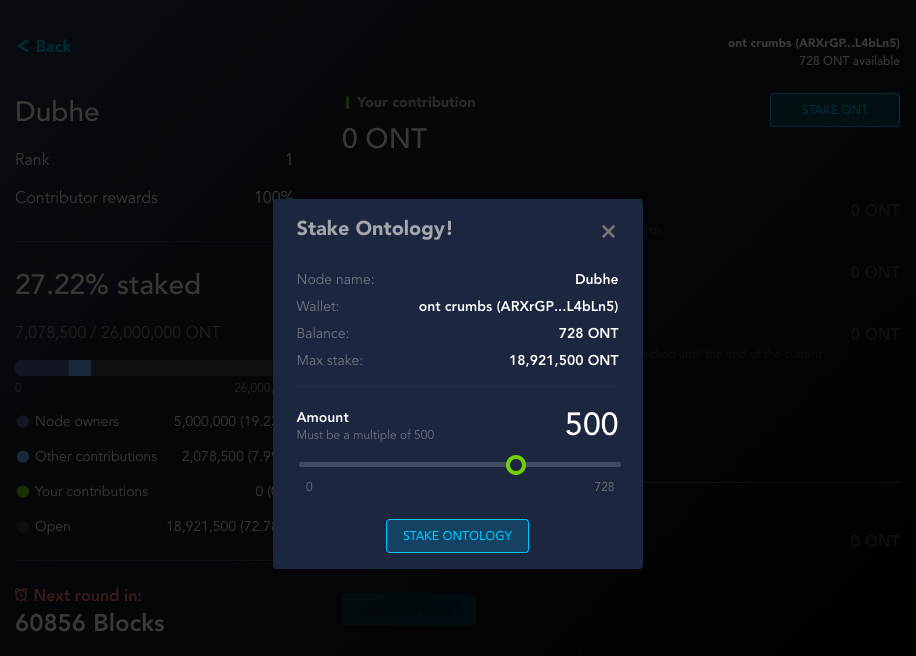
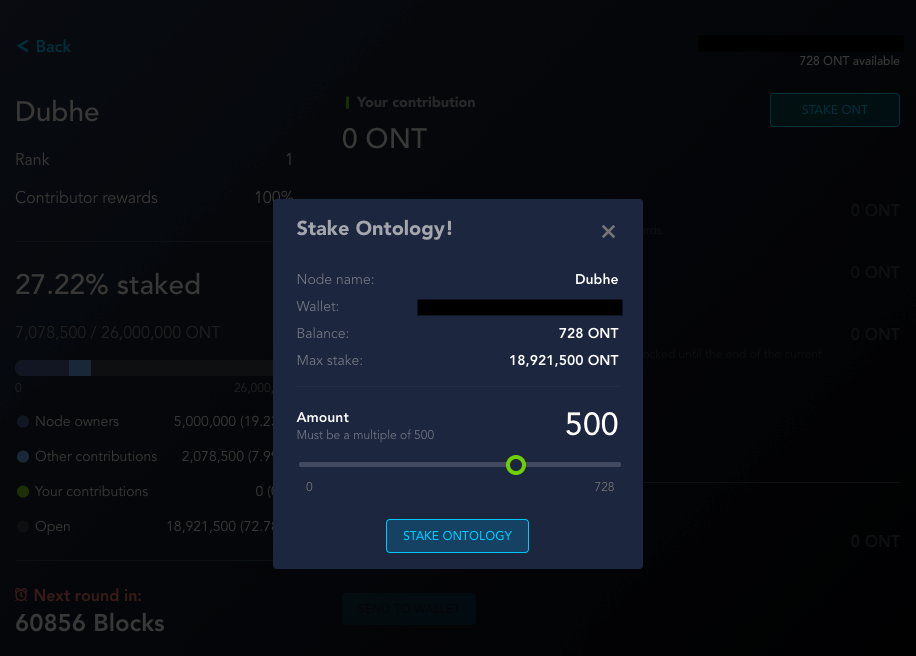
update screenshots and fix typo

Changed region(s): [[0.4585, 0.4573, 0.7031, 0.4878], [0.7948, 0.061, 0.9782, 0.0915]]

diff --git a/docs/ontStake.md b/docs/ontStake.md
@@ -7,7 +7,7 @@ title: Ontology Staking
 
 Ontology uses the VBFT consensus mechanism to secure it's network. At any given time, there will be 7 nodes who have been voted in by the community to participate in consensus every block. Users vote for nodes that they trust by staking their ONT tokens in multiples of 500 tokens per stake. Users are free to stake in any node they please, change the node they would like to stake their tokens with, and withdraw their staked ONT back into their wallets.
 
-Staking is managed in terms of rounds, which are comprised of 120,000 blocks each. Each block can range from 1 second to 30 seconds (3 when there are transactions queued in the block, and 30 when there are not), which means each round can range in time anywhere from 33 hours to 42 days. When a user stakes their ONT for a node, they are actually locking their ONT in a smart contract for a round to secure their vote. Any time a user would like to add or remove stakes for a node, they can submit a request to carry out that action in the following round.
+Staking is managed in terms of rounds, which are comprised of 120,000 blocks each. Each block can range from 1 second to 30 seconds (1 when there are transactions queued in the block, and 30 when there are not), which means each round can range in time anywhere from 33 hours to 42 days. When a user stakes their ONT for a node, they are actually locking their ONT in a smart contract for a round to secure their vote. Any time a user would like to add or remove stakes for a node, they can submit a request to carry out that action in the following round.
 
 ## Why should you stake?
 
